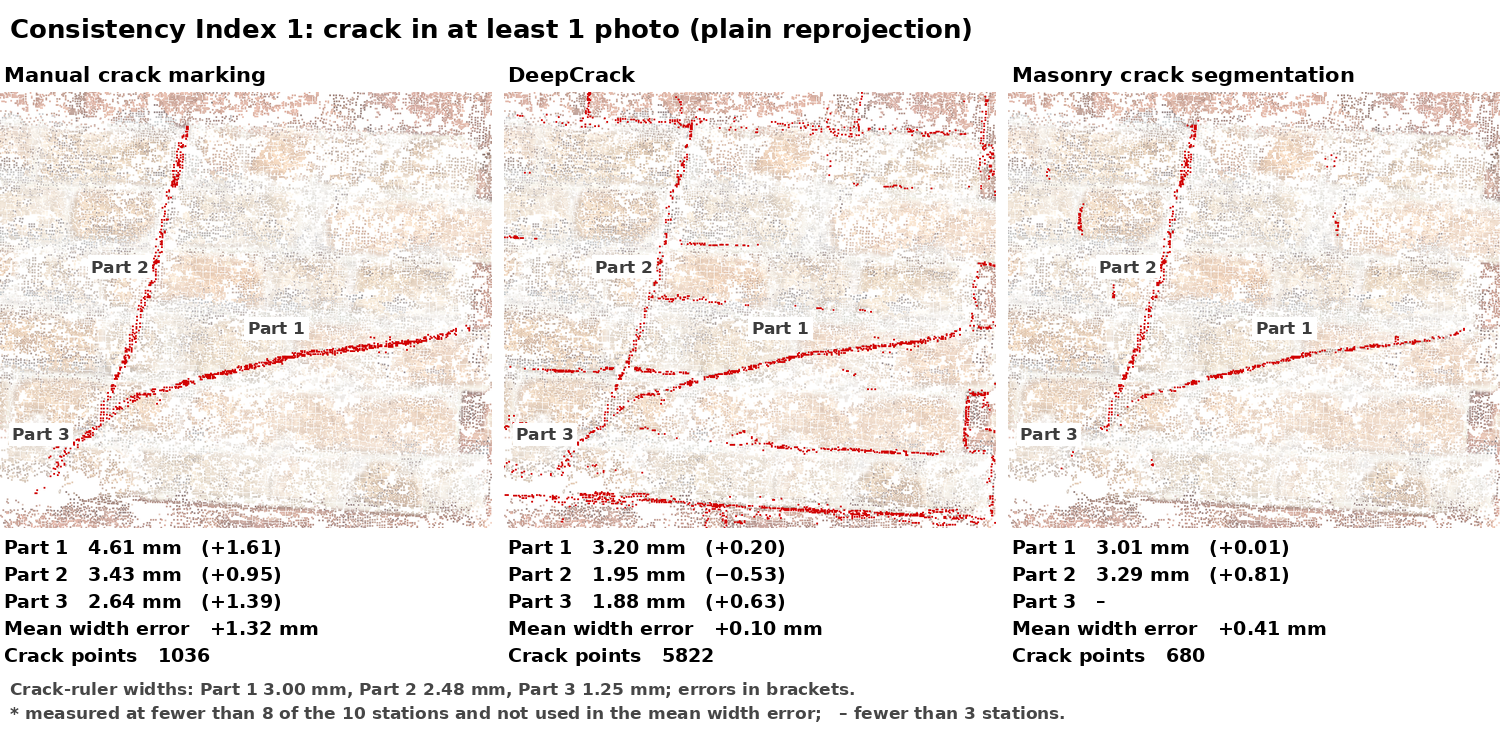
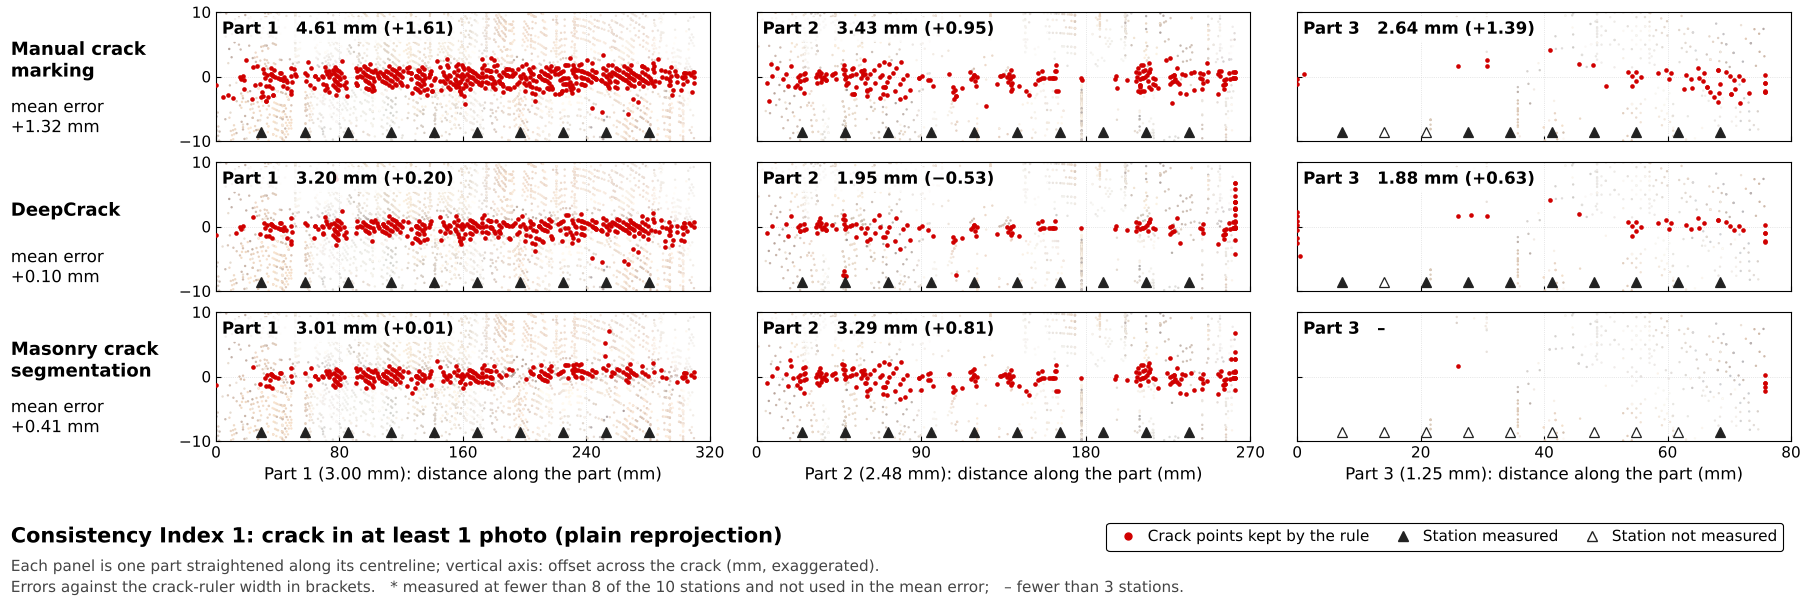
GIF: 3 x 3 panels per rule, segmentations by crack parts
Each frame shows the three segmentations (rows) and the three crack
parts (columns), each part straightened along its centreline, with the
crack points kept by the rule, the 10 width stations and the width and
error of the part. Split the width code into part_points, stations and
width; the results are unchanged.

Claude-Session: https://claude.ai/code/session_01EqbkgSMsNFk6tdU5j43jVK

diff --git a/code/make_figures.py b/code/make_figures.py
@@ -3,7 +3,8 @@ import json, os
 import numpy as np
 import matplotlib; matplotlib.use("Agg")
 import matplotlib.pyplot as plt
-from PIL import Image, ImageDraw, ImageFont
+from matplotlib.lines import Line2D
+from PIL import Image
 
 ROOT = os.path.dirname(os.path.dirname(os.path.abspath(__file__)))
 OUT = f"{ROOT}/results/drone"
@@ -34,32 +35,28 @@ def comparison():
     fig.tight_layout(); fig.savefig(f"{OUT}/rule_comparison.png", dpi=200); plt.close(fig)
 
 
-def gif(data_dir=f"{ROOT}/data/drone", pad=0.03, px=0.0005, width_px=1500, min_show=3):
-    """One frame per rule, in the order of the comparison figure; one panel per segmentation.
-    Under each panel: width and error of every part and the mean width error. A part measured at fewer than
-    `need` (8) of the 10 stations is shown with its number of stations and is not used in the mean error;
-    a part with fewer than `min_show` stations is shown as a dash."""
+def gif(data_dir=f"{ROOT}/data/drone", across=0.010, min_show=3):
+    """One frame per rule, in the order of the comparison figure. Rows: the three 2D segmentations; columns: the three
+    crack parts, each straightened along its centreline (across-crack scale exaggerated). Red points are the crack
+    points the rule keeps for that part, triangles the 10 stations (filled: measured). A part measured at fewer than
+    `need` (8) stations is marked * and not used in the mean error; one with fewer than `min_show` stations is a dash."""
     import sys; sys.path.insert(0, os.path.dirname(__file__))
-    from ci_pipeline import load, load_mask, mask_labeler, consistency_index, fusion_rules
-    geo = json.load(open(f"{data_dir}/geometry.json")); fr = geo["frame"]
+    from ci_pipeline import (load, load_mask, mask_labeler, consistency_index, fusion_rules, part_points, stations,
+                             _project_polyline)
+    geo = json.load(open(f"{data_dir}/geometry.json")); fr = geo["frame"]; c = geo["width_method"]
     o, A = np.array(fr["origin"]), np.array(fr["axes"])
+    lines = {p: np.array(l) for p, l in geo["centrelines_uv"].items()}
+    parts = list(lines); ref = [geo["reference_width_mm"][p] for p in parts]; need = c["need"]
+    xmax, xstep = {"Part1": 320, "Part2": 270, "Part3": 80}, {"Part1": 80, "Part2": 90, "Part3": 20}
+
+    # background: points of one photo with their colour, straightened along each part
     pts = np.load(f"{data_dir}/visible_points_crop.npz")
-    bg_xyz, bg_rgb = pts["xyz_0003"], pts["rgb_0003"]
-    lines = np.vstack([np.array(l) for l in geo["centrelines_uv"].values()])
-    lo, hi = lines.min(0) - pad, lines.max(0) + pad
-    W, H = int((hi[0] - lo[0]) / px) + 1, int((hi[1] - lo[1]) / px) + 1
-
-    def raster(xyz):
-        uv = ((xyz - o) @ A.T)[:, :2]; ok = np.all((uv >= lo) & (uv <= hi), 1)
-        c = ((uv[ok] - lo) / px).astype(int); return ok, c[:, 0], H - 1 - c[:, 1]
-
-    def paint(img, xyz, rgb):
-        ok, cx, cy = raster(xyz)                      # points are ~1 mm apart, raster at 0.5 mm: paint 3x3 blocks
-        for d in range(3):
-            for e in range(3):
-                img[np.clip(cy + d - 1, 0, H - 1), np.clip(cx + e - 1, 0, W - 1)] = rgb if np.ndim(rgb) == 1 else rgb[ok]
-    base = np.full((H, W, 3), 255, np.uint8); paint(base, bg_xyz, bg_rgb)
-    base = (0.55 * base + 0.45 * 255).astype(np.uint8)
+    uvw = (pts["xyz_0003"] - o) @ A.T; rgb = 0.55 * pts["rgb_0003"] / 255.0 + 0.45
+    on = np.abs(uvw[:, 2]) < c["wtol"]; bg = {}
+    for p in parts:
+        s, d, _, L = _project_polyline(uvw[on, :2], lines[p])
+        m = (np.abs(d) <= across) & (s > 0) & (s < L)
+        bg[p] = (s[m] * 1000, d[m] * 1000, rgb[on][m])
 
     # crack points kept by every rule
     views, P, vis, _ = load(data_dir); normal = A[2]
@@ -69,7 +66,8 @@ def gif(data_dir=f"{ROOT}/data/drone", pad=0.03, px=0.0005, width_px=1500, min_s
         cand, ci = consistency_index(views, P, vis, lab)
         keep[seg] = (cand, {f"CI {k}": ci >= k for k in (1, 2, 3, 4)} | fusion_rules(views, P, vis, lab, cand, normal))
     rows = json.load(open(f"{OUT}/widths.json"))
-    title = {"manual": "Manual crack marking", "deepcrack": "DeepCrack", "masonry": "Masonry crack segmentation"}
+    title = {"manual": "Manual crack\nmarking", "deepcrack": "DeepCrack", "masonry": "Masonry crack\nsegmentation"}
+    name = {"manual": "Manual crack marking", "deepcrack": "DeepCrack", "masonry": "Masonry crack segmentation"}
     frames_def = [("CI 1", "CI 1 (plain reprojection)", "Consistency Index 1: crack in at least 1 photo (plain reprojection)"),
                   ("CI 2", "CI 2", "Consistency Index 2: crack in at least 2 photos"),
                   ("CI 3", "CI 3", "Consistency Index 3: crack in at least 3 photos"),
@@ -80,63 +78,62 @@ def gif(data_dir=f"{ROOT}/data/drone", pad=0.03, px=0.0005, width_px=1500, min_s
                   ("fraction >= 1/2", "fraction >= 1/2", "Fixed rule: crack in at least 1/2 of the photos that see the point"),
                   ("fraction >= 2/3", "fraction >= 2/3", "Fixed rule: crack in at least 2/3 of the photos that see the point")]
 
-    def font(size):
-        for f in ("DejaVuSans-Bold.ttf", "/usr/share/fonts/truetype/dejavu/DejaVuSans-Bold.ttf", "arialbd.ttf"):
-            try: return ImageFont.truetype(f, size)
-            except OSError: pass
-        return ImageFont.load_default()
-    f_head, f_panel, f_txt, f_note, f_lab = font(26), font(21), font(19), font(17), font(17)
-    ref = [geo["reference_width_mm"][p] for p in ("Part1", "Part2", "Part3")]; need = geo["width_method"]["need"]
-    gap, pw = 12, (width_px - 2 * 12) // 3; ph = int(H * pw / W)
-    top, head, line_h = 56, 36, 27; foot = 5 * line_h + 12; note_h = 56
-    # part labels: next to the middle of each centreline, offset across it
-    labels = []
-    for k, (name, l) in enumerate(geo["centrelines_uv"].items()):
-        l = np.array(l); m = len(l) // 2; a, b = l[max(m - 2, 0)], l[min(m + 2, len(l) - 1)]
-        t = (b - a) / np.linalg.norm(b - a); n = np.array([-t[1], t[0]])
-        labels.append((f"Part {k + 1}", l[m], n))
-
-    def to_panel(uv):
-        c = (uv - lo) / px; return np.array([c[0] * pw / W, (H - 1 - c[1]) * ph / H])
-
-    def part_line(r, i):
-        n, w = r["stations"][i], r["width_all_stations_mm"][i]
+    def part_text(r, j):
+        n, w = r["stations"][j], r["width_all_stations_mm"][j]
         if w is None or n < min_show:
-            return f"Part {i + 1}   \u2013"
-        s = f"Part {i + 1}   {w:.2f} mm   ({w - ref[i]:+.2f})"
-        if n < need:
-            s += f"   {n}/10 st.*"
-        return s.replace("-", "\u2212")
+            return "\u2013"
+        t = f"{w:.2f} mm ({w - ref[j]:+.2f})" + (f"   {n}/10 stations*" if n < need else "")
+        return t.replace("-", "\u2212")
 
-    note = ["Crack-ruler widths: Part 1 3.00 mm, Part 2 2.48 mm, Part 3 1.25 mm; errors in brackets.",
-            "* measured at fewer than 8 of the 10 stations and not used in the mean width error;   \u2013 fewer than 3 stations."]
+    plt.rcParams.update({"font.family": "DejaVu Sans", "font.size": 11, "axes.linewidth": 0.8,
+                         "xtick.direction": "in", "ytick.direction": "in"})
+    W, H = 18.0, 6.0; left, right, gapx = 0.12, 0.995, 0.026; aw = (right - left - 2 * gapx) / 3
+    ah, top, gapy = 0.215, 0.98, 0.035
     frames = []
     for key, rule_name, caption in frames_def:
-        fr_img = Image.new("RGB", (width_px, top + head + ph + foot + note_h), "white"); dr = ImageDraw.Draw(fr_img)
-        dr.text((10, 13), caption, fill=(0, 0, 0), font=f_head)
+        fig = plt.figure(figsize=(W, H), dpi=100)
         for i, seg in enumerate(("manual", "deepcrack", "masonry")):
-            x0 = i * (pw + gap); cand, sets = keep[seg]
-            r = next(r for r in rows if r["segmentation"] == title[seg] and r["rule"] == rule_name)
-            dr.text((x0 + 4, top + 6), title[seg], fill=(0, 0, 0), font=f_panel)
-            img = base.copy(); paint(img, cand[sets[key]], np.array([210, 0, 0], np.uint8))
-            panel = Image.fromarray(img).resize((pw, ph), Image.LANCZOS); pd = ImageDraw.Draw(panel)
-            for txt, mid, nrm in labels:
-                c = to_panel(mid); d = np.array([nrm[0], -nrm[1]]) * 30
-                c = c + d if 0 <= (c + d)[1] <= ph - 20 else c - d
-                bw = pd.textlength(txt, font=f_lab)
-                pd.rectangle([c[0] - bw / 2 - 3, c[1] - 11, c[0] + bw / 2 + 3, c[1] + 11], fill=(255, 255, 255))
-                pd.text((c[0] - bw / 2, c[1] - 10), txt, fill=(60, 60, 60), font=f_lab)
-            fr_img.paste(panel, (x0, top + head))
-            y = top + head + ph + 8
-            for j in range(3):
-                dr.text((x0 + 4, y), part_line(r, j), fill=(0, 0, 0), font=f_txt); y += line_h
+            cand, sets = keep[seg]; xyz = cand[sets[key]]
+            r = next(r for r in rows if r["segmentation"] == name[seg] and r["rule"] == rule_name)
+            y0 = top - ah - i * (ah + gapy)
             me = "n/a" if r["mean_error_mm"] is None else f"{r['mean_error_mm']:+.2f} mm".replace("-", "\u2212")
-            dr.text((x0 + 4, y), f"Mean width error   {me}", fill=(0, 0, 0), font=f_txt); y += line_h
-            dr.text((x0 + 4, y), f"Crack points   {r['points']}", fill=(0, 0, 0), font=f_txt)
-        for j, t in enumerate(note):
-            dr.text((10, top + head + ph + foot + 4 + 24 * j), t, fill=(70, 70, 70), font=f_note)
-        frames.append(fr_img)
-    frames[0].save(f"{OUT}/consistency_index_drone.gif", save_all=True, append_images=frames[1:], duration=1600, loop=0)
+            fig.text(0.006, y0 + ah * 0.62, title[seg], fontsize=13, fontweight="bold", va="center")
+            fig.text(0.006, y0 + ah * 0.18, f"mean error\n{me}", fontsize=12, va="center")
+            for j, p in enumerate(parts):
+                ax = fig.add_axes([left + j * (aw + gapx), y0, aw, ah])
+                ax.set_axisbelow(True); ax.grid(True, color="#c9c9c9", linewidth=0.45, linestyle=(0, (1, 2)))
+                bs, bd, bc = bg[p]; ax.scatter(bs, bd, s=3, c=bc, linewidths=0, zorder=1)
+                s, d, L, _ = part_points(xyz, p, geo)
+                m = np.abs(d) <= across
+                ax.scatter(s[m] * 1000, d[m] * 1000, s=11, c="#D00000", linewidths=0, zorder=3)
+                st, L = stations(xyz, p, geo); done = {k for k, _, _ in st}
+                e = np.linspace(c["margin"] * L, (1 - c["margin"]) * L, c["nseg"] + 1); mid = (e[:-1] + e[1:]) / 2 * 1000
+                for k, x in enumerate(mid):
+                    ax.plot(x, -8.6, marker="^", markersize=6.5, color="#222222",
+                            markerfacecolor="#222222" if k in done else "white", markeredgewidth=0.9, zorder=4)
+                ax.set_xlim(0, xmax[p]); ax.set_xticks(np.arange(0, xmax[p] + 1, xstep[p]))
+                ax.set_ylim(-across * 1000, across * 1000); ax.set_yticks([-10, 0, 10])
+                if i < 2: ax.set_xticklabels([])
+                else: ax.set_xlabel(f"Part {j + 1} ({ref[j]:.2f} mm): distance along the part (mm)", fontsize=12)
+                if j > 0: ax.set_yticklabels([])
+                ax.text(0.012, 0.93, f"Part {j + 1}   " + part_text(r, j), transform=ax.transAxes, fontsize=12,
+                        fontweight="bold", va="top", ha="left", zorder=5,
+                        bbox=dict(boxstyle="square,pad=0.25", facecolor="white", edgecolor="none", alpha=0.85))
+        fig.text(0.006, 0.105, caption, fontsize=15, fontweight="bold", va="center")
+        fig.text(0.006, 0.055, "Each panel is one part straightened along its centreline; vertical axis: offset across the "
+                 "crack (mm, exaggerated).", fontsize=11, va="center", color="#444444")
+        fig.text(0.006, 0.02, "Errors against the crack-ruler width in brackets.   * measured at fewer than 8 of the 10 "
+                 "stations and not used in the mean error;   \u2013 fewer than 3 stations.", fontsize=11, va="center",
+                 color="#444444")
+        hd = [Line2D([], [], linestyle="none", marker="o", markersize=5, color="#D00000", label="Crack points kept by the rule"),
+              Line2D([], [], linestyle="none", marker="^", markersize=7, color="#222222", label="Station measured"),
+              Line2D([], [], linestyle="none", marker="^", markersize=7, color="#222222", markerfacecolor="white",
+                     label="Station not measured")]
+        lg = fig.legend(handles=hd, loc="center right", bbox_to_anchor=(0.995, 0.105), ncol=3, frameon=True, fontsize=11,
+                        edgecolor="black", framealpha=1, handletextpad=0.3, columnspacing=1.2)
+        lg.get_frame().set_linewidth(0.8)
+        fig.canvas.draw(); frames.append(Image.fromarray(np.asarray(fig.canvas.buffer_rgba())[:, :, :3].copy())); plt.close(fig)
+    frames[0].save(f"{OUT}/consistency_index_drone.gif", save_all=True, append_images=frames[1:], duration=1800, loop=0)
     frames[0].save(f"{OUT}/ci1_drone.png"); frames[1].save(f"{OUT}/ci2_drone.png")
 
 

diff --git a/code/ci_pipeline.py b/code/ci_pipeline.py
@@ -94,22 +94,32 @@ def _project_polyline(q, line):
     return s, d, best, cum[-1]
 
 
-def width(xyz, part, geo):
-    """Across-crack extent (mm) of the contiguous band at 10 equally spaced stations.
-    Returns (width, n, width_all): n is the number of stations that could be measured, width_all the mean
-    over those n stations, and width the same mean but None when n is below `need` (8), as in the manuscript."""
+def part_points(xyz, part, geo):
+    """Points assigned to one part (nearest centreline, within R, |out-of-plane| < wtol): arc length s and signed
+    across-crack offset d (m) along its centreline, the centreline length L and the indices of the points."""
     c = geo["width_method"]; fr = geo["frame"]
     uvw = (xyz - np.array(fr["origin"])) @ np.array(fr["axes"]).T
-    q2 = uvw[np.abs(uvw[:, 2]) < c["wtol"], :2]
+    keep = np.flatnonzero(np.abs(uvw[:, 2]) < c["wtol"]); q2 = uvw[keep, :2]
     lines = {p: np.array(l) for p, l in geo["centrelines_uv"].items()}
-    names = list(lines)
+    names = list(lines); L = _project_polyline(lines[part][:1], lines[part])[3]
+    if not len(q2):
+        return np.array([]), np.array([]), L, keep
     dd = np.stack([_project_polyline(q2, lines[p])[2] for p in names], 1)
-    q = q2[(dd.argmin(1) == names.index(part)) & (dd.min(1) < c["R"])]
-    if len(q) < 2:
-        return None, 0, None
-    s, d, _, L = _project_polyline(q, lines[part])
-    edges = np.linspace(c["margin"] * L, (1 - c["margin"]) * L, c["nseg"] + 1); ws = []
-    for a, b in zip(edges[:-1], edges[1:]):
+    sel = (dd.argmin(1) == names.index(part)) & (dd.min(1) < c["R"])
+    s, d, _, _ = _project_polyline(q2[sel], lines[part])
+    return s, d, L, keep[sel]
+
+
+def stations(xyz, part, geo):
+    """Across-crack extent (mm) of the contiguous band of points at the 10 equally spaced stations of one part.
+    Returns the measured stations as (index, position s0 in m, width in mm) and the centreline length L (m)."""
+    c = geo["width_method"]
+    s, d, L, _ = part_points(xyz, part, geo)
+    out = []
+    if len(s) < 2:
+        return out, L
+    edges = np.linspace(c["margin"] * L, (1 - c["margin"]) * L, c["nseg"] + 1)
+    for i, (a, b) in enumerate(zip(edges[:-1], edges[1:])):
         cand = np.arange(a, b, 0.0005)
         for s0 in cand[np.argsort(np.abs(cand - (a + b) / 2))]:
             sel = np.abs(s - s0) <= c["h"]
@@ -117,6 +127,14 @@ def width(xyz, part, geo):
                 g = np.sort(d[sel]); groups = np.split(g, np.where(np.diff(g) > c["gap"])[0] + 1)
                 g = min(groups, key=lambda x: 0 if x.min() <= 0 <= x.max() else min(abs(x.min()), abs(x.max())))
                 if len(g) >= c["minpts"] and g.max() > g.min():
-                    ws.append(g.max() - g.min()); break
-    w_all = float(np.mean(ws)) * 1000 if ws else None
-    return (w_all if len(ws) >= c["need"] else None), len(ws), w_all
+                    out.append((i, float(s0), float(g.max() - g.min()) * 1000)); break
+    return out, L
+
+
+def width(xyz, part, geo):
+    """Mean width (mm) over the 10 stations of one part. Returns (width, n, width_all): n is the number of stations
+    that could be measured, width_all the mean over those n stations, and width the same mean but None when n is
+    below `need` (8), as in the manuscript."""
+    st, _ = stations(xyz, part, geo); ws = [w for _, _, w in st]
+    w_all = float(np.mean(ws)) if ws else None
+    return (w_all if len(ws) >= geo["width_method"]["need"] else None), len(ws), w_all

diff --git a/README.md b/README.md
@@ -15,7 +15,7 @@ Inputs in `data/drone`: visible points of five photos after depth filtering and 
 
 ![CI on the UAV point cloud](results/drone/consistency_index_drone.gif)
 
-Each frame is one rule, in the order of the comparison below. Red points are the crack points the rule keeps for each 2D segmentation. Under each panel are the width of each part with its error against the crack-ruler width, the mean width error and the number of crack points. A part measured at fewer than 8 of the 10 stations is marked * with its number of stations and is not used in the mean error.
+Each frame is one rule, in the order of the comparison below. Rows are the three 2D segmentations and columns the three crack parts, each straightened along its centreline with the across-crack scale exaggerated. Red points are the crack points the rule keeps for that part, and triangles mark the 10 width stations (filled = measured). Each panel gives the width of the part with its error against the crack-ruler width, and each row the mean width error of the segmentation. A part measured at fewer than 8 of the 10 stations is marked * with its number of stations and is not used in the mean error.
 
 ### Comparison with fixed fusion rules
 
